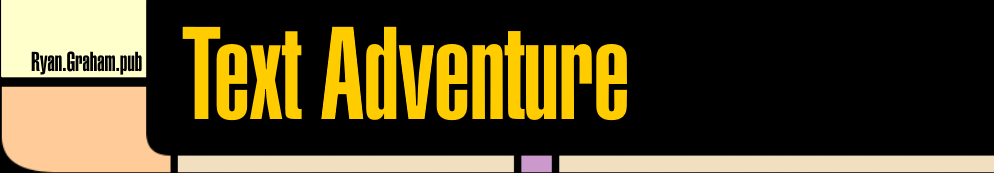
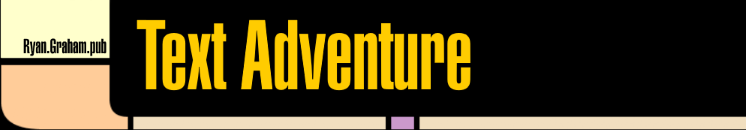
when clicking in the display, it selects the input textarea.

diff --git a/cartridges/farpoint.js b/cartridges/farpoint.js
@@ -35,7 +35,7 @@ var gameData = {
             firstVisit : true,
             displayName : 'Bridge',
             description : '[Bridge]\nYou enter the bridge.  You\'ve never stepped foot on a starship that still had the \'new ship smell\'.\n' +
-                        '"My crew is short in several key positions, most notably a first officer, but I am informed that a highly experienced man, one Commander William Riker, will be waiting to join our ship when we reach our Deneb IV destination."\n',
+                        '"My crew is short in several key positions, most notably a first officer, but I am informed that a highly experienced man, one Commander William Riker, will be waiting to join our ship when we reach our Deneb IV destination"',
             interactables : {
                 viewscreen: {
                     look : function() {

diff --git a/terminal/js/terminal.js b/terminal/js/terminal.js
@@ -43,7 +43,7 @@ $(function(){
 	// ----- Window Resize Listener -----------------------------------------------------
 	$(window).resize(function(){
 		displayResize();
-	});
+    });
 });
 
 // ===== Functions ======================================================================
@@ -68,4 +68,9 @@ function toScreen(message, actor){
 	var displayString = $('#display').val() + message + '\n';
 	$('#display').val(displayString);
 	$('#display').scrollTop($('#display')[0].scrollHeight);
+}
+
+// ----- On click highlight textarea
+function highlightTextArea(){
+    $('#input').focus();
 }

diff --git a/terminal/index.html b/terminal/index.html
@@ -6,10 +6,11 @@
 		<link rel="stylesheet" type="text/css" href="css/terminal.css">
 	</head>
 	<body>
+        <img src="img\lcars title.png" />
 		<form id="console" action="#">
 			<input id="input" type="text" autofocus autocomplete="off"/>
 			<input type="submit" id="enter" />
 		</form>
-		<textarea id="display" readonly></textarea>
+		<textarea id="display" onclick="highlightTextArea()" readonly></textarea>
 	</body>
 </html>
